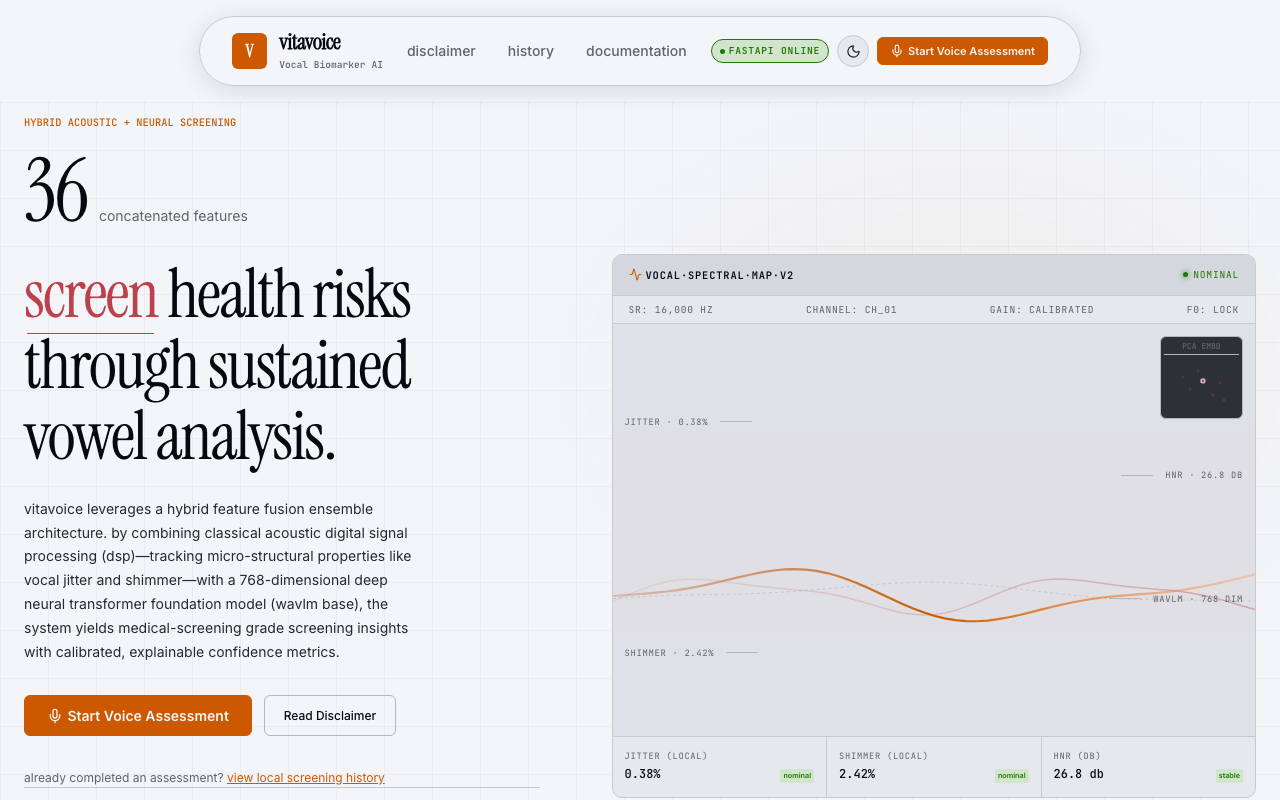
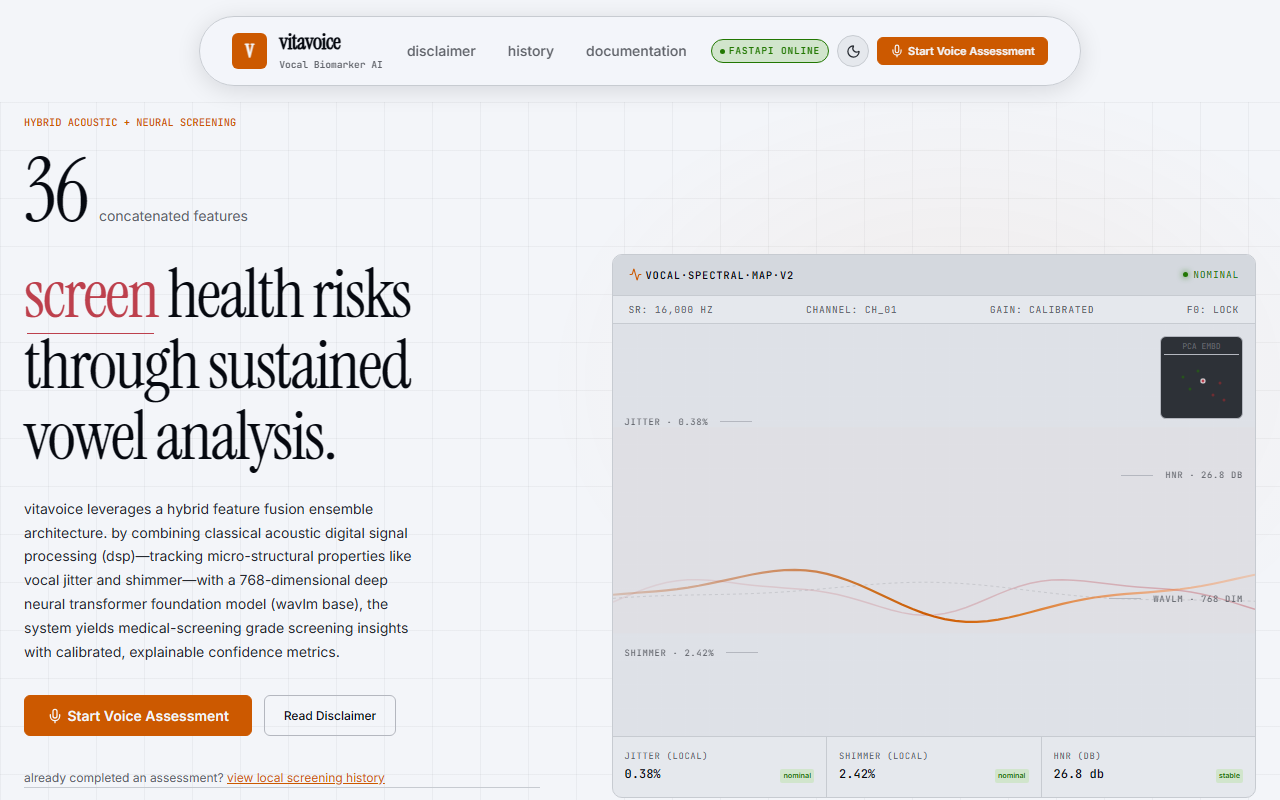
test: fix webapp-testing pipe deadlock and add e2e playwright alignment checks

diff --git a/tests/test_wavlm_clinical_intelligence.py b/tests/test_wavlm_clinical_intelligence.py
@@ -1,0 +1,236 @@
+import os
+import sys
+import pytest
+import numpy as np
+
+# Add project root to python path to allow imports
+sys.path.append(os.path.dirname(os.path.dirname(os.path.abspath(__file__))))
+
+from ml.inference.wavlm_fingerprint import WavLMFingerprintEngine
+from ml.inference.wavlm_authenticity import RecordingAuthenticityAuditor
+from ml.inference.wavlm_ood import WavLMOODDetector
+from ml.inference.wavlm_quality import WavLMQualityAuditor
+from ml.inference.wavlm_confidence import WavLMConfidenceAuditor
+from backend.app.services.decision_engine import ClinicalDecisionEngine
+from backend.app.services.patient_db import PatientDBService
+
[email redacted]
+def mock_references():
+    class References:
+        healthy_centroid = np.zeros(768)
+        healthy_centroid[0] = 1.0
+        parkinsons_centroid = np.zeros(768)
+        parkinsons_centroid[1] = 1.0
+        
+        train_embeddings = np.zeros((5, 768))
+        train_embeddings[0][0] = 1.0   # Healthy
+        train_embeddings[1][0] = 0.95  # Healthy
+        train_embeddings[2][0] = 0.90  # Healthy
+        train_embeddings[3][1] = 1.0   # PD
+        train_embeddings[4][1] = 0.95  # PD
+        train_labels = np.array([0, 0, 0, 1, 1])
+        
+        mean_healthy_reduced = np.ones(16) * 0.1
+        mean_parkinsons_reduced = np.ones(16) * 0.2
+        cov_healthy_inv = np.eye(16)
+        cov_parkinsons_inv = np.eye(16)
+        
+        class MockOOD:
+            def score_samples(self, X):
+                # Returns high score if first element is non-zero
+                return np.array([5.0 if X[0][0] > 0.5 else 1.0])
+        ood_detector = MockOOD()
+        ood_threshold = 3.0
+    return References()
+
[email redacted]
+def fingerprint_engine(mock_references):
+    engine = WavLMFingerprintEngine(checkpoints_dir="non_existent")
+    engine.healthy_centroid = mock_references.healthy_centroid
+    engine.parkinsons_centroid = mock_references.parkinsons_centroid
+    engine.train_embeddings = mock_references.train_embeddings
+    engine.train_labels = mock_references.train_labels
+    engine.mean_healthy_reduced = mock_references.mean_healthy_reduced
+    engine.mean_parkinsons_reduced = mock_references.mean_parkinsons_reduced
+    engine.cov_healthy_inv = mock_references.cov_healthy_inv
+    engine.cov_parkinsons_inv = mock_references.cov_parkinsons_inv
+    engine.loaded = True
+    return engine
+
[email redacted]
+def ood_detector(mock_references):
+    detector = WavLMOODDetector(checkpoints_dir="non_existent")
+    detector.ood_detector = mock_references.ood_detector
+    detector.ood_threshold = mock_references.ood_threshold
+    detector.loaded = True
+    return detector
+
+def test_fingerprint_similarity_matching(fingerprint_engine):
+    # Match PD centroid closely
+    emb = np.zeros(768)
+    emb[1] = 1.0
+    res = fingerprint_engine.compute_similarity(emb)
+    
+    assert res['nearest_cluster'] == "Parkinson's Cluster"
+    assert res['similarity_parkinsons'] > 90.0
+    assert res['embedding_confidence'] == "High"
+
+def test_fingerprint_nearest_neighbors(fingerprint_engine):
+    # Embedding identical to PD centroid
+    emb = np.zeros(768)
+    emb[1] = 1.0
+    neighbors = fingerprint_engine.find_nearest_neighbors(emb, k=2)
+    
+    assert len(neighbors) == 2
+    assert neighbors[0]['label'] == 1
+    assert "Pathology Cohort" in neighbors[0]['cohort']
+
+def test_ood_detector_logic(ood_detector):
+    # In-distribution
+    emb_in = np.zeros(768)
+    emb_in[0] = 1.0
+    res_in = ood_detector.detect_ood(emb_in)
+    assert res_in['is_ood'] is False
+    assert res_in['ood_probability'] < 50.0
+    
+    # Out-of-distribution
+    emb_out = np.zeros(768)
+    emb_out[0] = 0.0
+    res_out = ood_detector.detect_ood(emb_out)
+    assert res_out['is_ood'] is True
+    assert res_out['ood_probability'] >= 50.0
+
+def test_quality_auditor_calculations():
+    auditor = WavLMQualityAuditor()
+    train_embs = np.ones((5, 768))
+    emb = np.ones(768)
+    
+    # Excellent quality DSP parameters
+    dsp_ok = {
+        "snr_db": 30.0,
+        "background_noise_pct": 2.0,
+        "clipping_detected": False,
+        "duration_seconds": 15.0,
+        "speech_coverage_pct": 90.0
+    }
+    res_ok = auditor.audit_quality(emb, train_embs, dsp_ok)
+    assert res_ok['overall_score'] >= 4.5
+    assert res_ok['recording_reliability'] == "High"
+    assert res_ok['re_record_recommended'] is False
+    
+    # Bad quality DSP parameters
+    dsp_bad = {
+        "snr_db": 5.0,
+        "background_noise_pct": 55.0,
+        "clipping_detected": True,
+        "duration_seconds": 2.0,
+        "speech_coverage_pct": 10.0
+    }
+    res_bad = auditor.audit_quality(emb, train_embs, dsp_bad)
+    assert res_bad['overall_score'] <= 2.5
+    assert res_bad['re_record_recommended'] is True
+    assert "signal clipping" in res_bad['reasons']
+
+def test_confidence_auditor_combinations():
+    auditor = WavLMConfidenceAuditor()
+    
+    # High confidence scenario
+    res_high = auditor.evaluate_trust(
+        svm_risk=0.90,
+        quality_score=4.8,
+        ood_probability=5.0,
+        similarity_matching_score=92.0,
+        authenticity_score=97.0
+    )
+    assert res_high['trust_level'] == "High"
+    assert res_high['trust_score'] >= 80.0
+    
+    # Quality failure drops trust level to Low
+    res_low = auditor.evaluate_trust(
+        svm_risk=0.90,
+        quality_score=2.0,
+        ood_probability=5.0,
+        similarity_matching_score=92.0,
+        authenticity_score=97.0
+    )
+    assert res_low['trust_level'] == "Low"
+    assert res_low['trust_score'] <= 30.0
+
+def test_decision_engine_rules():
+    engine = ClinicalDecisionEngine()
+    
+    # 1. Quality failure overrides risk classification
+    quality_bad = {'overall_score': 2.0, 're_record_recommended': True, 'reasons': ['signal clipping']}
+    auth_ok = {'authenticity_score': 98.0, 'is_authentic': True}
+    ood_ok = {'is_ood': False, 'ood_probability': 5.0}
+    sim_ok = {'similarity_parkinsons': 90.0, 'nearest_cluster': "Parkinson's Cluster"}
+    svm_trust = {'trust_score': 85.0, 'trust_level': "High"}
+    
+    res = engine.run_rules(
+        svm_risk=0.88,
+        svm_trust=svm_trust,
+        quality_info=quality_bad,
+        ood_info=ood_ok,
+        similarity_info=sim_ok,
+        authenticity_info=auth_ok
+    )
+    assert "Suspended" in res['status_label']
+    assert "recording" in res['recommendation']
+    
+    # 2. Inconclusive assessment on borderline + ambiguous matching
+    quality_ok = {'overall_score': 4.5, 're_record_recommended': False, 'reasons': []}
+    sim_ambig = {'similarity_parkinsons': 50.0, 'similarity_healthy': 50.0, 'nearest_cluster': 'Healthy Cluster'}
+    res_inc = engine.run_rules(
+        svm_risk=0.5,
+        svm_trust={'trust_score': 45.0, 'trust_level': "Medium"},
+        quality_info=quality_ok,
+        ood_info=ood_ok,
+        similarity_info=sim_ambig,
+        authenticity_info=auth_ok
+    )
+    assert res_inc['status'] == 3
+    assert "Inconclusive" in res_inc['status_label']
+
+def test_patient_db_service_integration(tmp_path):
+    # Use temporary file to isolate testing
+    db_file = os.path.join(tmp_path, "test_patients.db")
+    db = PatientDBService(db_path=db_file)
+    
+    patient_id = "pat_test_123"
+    screening_id = "scr_abc"
+    embedding = np.ones(768)
+    embedding[0] = 0.5
+    
+    metrics = {"hnr": 22.0, "jitter_pct": 0.45}
+    reasoning = "Normal acoustic biomarkers."
+    rec = "wellness monitoring."
+    
+    # Save screening (will implicitly initialize baseline)
+    db.save_screening(
+        patient_id=patient_id,
+        screening_id=screening_id,
+        risk_score=0.12,
+        trust_score=88.5,
+        trust_level="High",
+        embedding=embedding,
+        clinical_metrics=metrics,
+        decision_reasoning=reasoning,
+        recommendation=rec
+    )
+    
+    # Verify baseline is stored
+    base = db.get_patient_baseline(patient_id)
+    assert base is not None
+    assert base.shape == (768,)
+    assert base[0] == 0.5
+    
+    # Verify history
+    history = db.get_patient_history(patient_id)
+    assert len(history) == 1
+    assert history[0]['screening_id'] == screening_id
+    assert history[0]['clinical_metrics']['hnr'] == 22.0
+    
+    # Verify trajectory
+    traj = db.get_patient_trajectory(patient_id)
+    assert len(traj) == 1
+    assert traj[0]['embedding'].shape == (768,)

diff --git a/tests/test_direct_upload.py b/tests/test_direct_upload.py
@@ -1,0 +1,35 @@
+import os
+import sys
+import io
+import pytest
+from fastapi.testclient import TestClient
+
+# Add project root to python path to allow imports
+sys.path.append(os.path.dirname(os.path.dirname(os.path.abspath(__file__))))
+
+from backend.app.main import app
+from tests.test_results_page import generate_dummy_wav
+
+def test_direct_api_upload():
+    client = TestClient(app)
+    
+    mock_wav_path = "tests/mock_voice_direct.wav"
+    generate_dummy_wav(mock_wav_path)
+    
+    print("Sending POST request to /api/v1/screen...")
+    try:
+        with open(mock_wav_path, "rb") as f:
+            file_payload = {"file": ("voice_sample.wav", f, "audio/wav")}
+            response = client.post("/api/v1/screen", files=file_payload)
+            
+        print("Response status code:", response.status_code)
+        assert response.status_code == 200
+        data = response.json()
+        print("Keys returned:", list(data.keys()))
+        assert data["success"] is True
+        assert "decision_engine" in data
+        print("Decision Status Label:", data["decision_engine"]["status_label"])
+    except Exception as e:
+        import traceback
+        traceback.print_exc()
+        raise e

diff --git a/tests/test_results_page.py b/tests/test_results_page.py
@@ -26,6 +26,12 @@ def test_results_page_alignment():
         context = browser.new_context(viewport={"width": 1280, "height": 900})
         page = context.new_page()
         
+        # Listen for console logs and page errors
+        page.on("console", lambda msg: print(f"BROWSER CONSOLE: [{msg.type}] {msg.text}"))
+        page.on("pageerror", lambda err: print(f"BROWSER ERROR: {err}"))
+        page.on("request", lambda req: print(f"BROWSER HTTP REQUEST: {req.method} {req.url}"))
+        page.on("response", lambda res: print(f"BROWSER HTTP RESPONSE: {res.status} {res.url}"))
+        
         url = os.environ.get("TEST_URL", "http://localhost:8000")
         print(f"Navigating to {url}...")
         
@@ -54,7 +60,7 @@ def test_results_page_alignment():
             
             # Wait for transition to results page (could take a bit for analysis spinner)
             print("Waiting for screening results...")
-            page.wait_for_selector(".dashboard", timeout=25000)
+            page.wait_for_selector(".dashboard", timeout=120000)
             print("Dashboard loaded.")
             
             # Give dashboard charts/plots a brief moment to render fully

diff --git a/.agents/skills/webapp-testing/scripts/with_server.py b/.agents/skills/webapp-testing/scripts/with_server.py
@@ -68,9 +68,7 @@ def main():
             # Use shell=True to support commands with cd and &&
             process = subprocess.Popen(
                 server['cmd'],
-                shell=True,
-                stdout=subprocess.PIPE,
-                stderr=subprocess.PIPE
+                shell=True
             )
             server_processes.append(process)
 